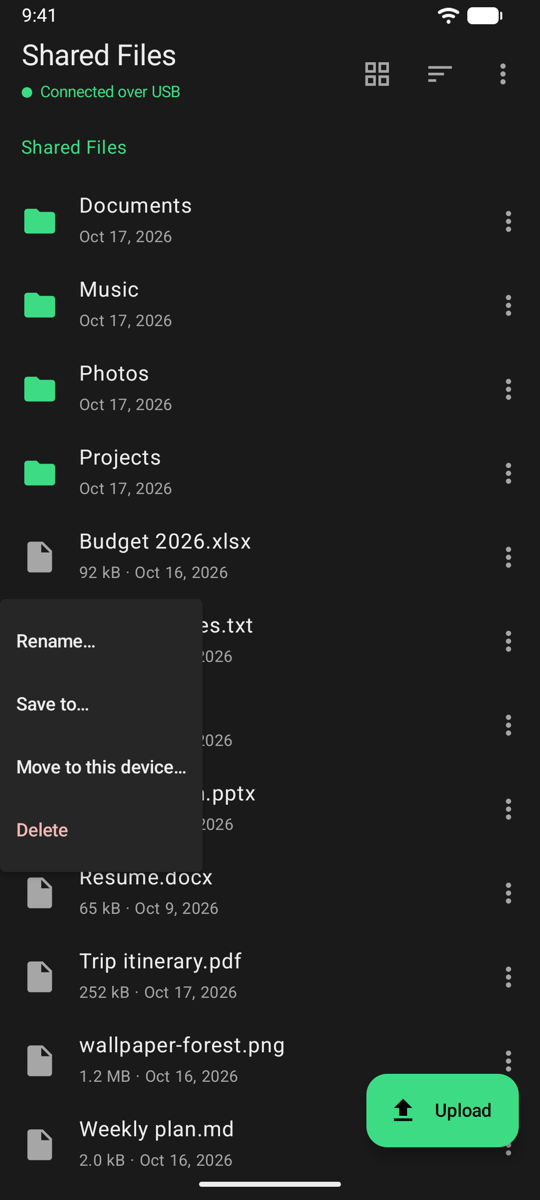
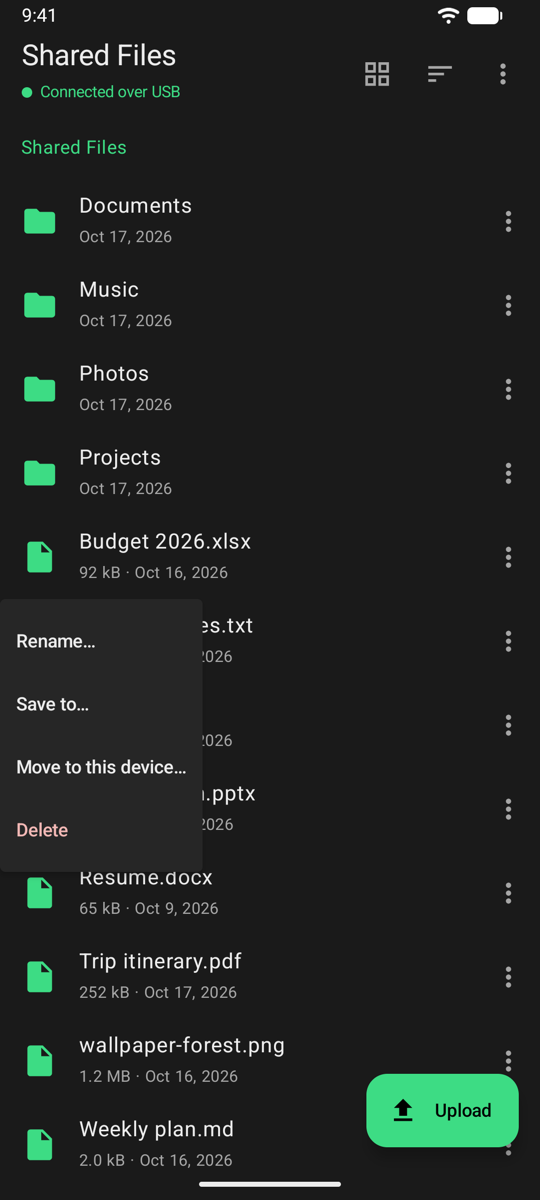
README: document the accent color and sidebar settings, refresh the Android screenshots

diff --git a/README.md b/README.md
@@ -63,6 +63,22 @@ List view, and the New Folder dialog.
 
 - **Upload Files…** pushes local files onto the Android device.
 
+### Make it yours
+
+- **Accent color.** Settings → Appearance (⌘,) picks the color of icons, folders and highlights from Finder's tag colors: Red, Orange, Yellow, Green, Blue, Purple or Gray. Green is the default. Dirian for Android uses the same color when you share a folder to it.
+- **Sidebar.** Settings → Sidebar chooses which shortcuts and which of the device's folders appear in the sidebar. A hidden folder is still there. Open the device's root folder to browse to it.
+
+<img src="Screenshots/accent-purple.png" width="700" alt="Dirian recolored with the Purple accent: purple folders, sidebar icons and highlights">
+
+Dirian with the Purple accent.
+
+<p align="center">
+  <img src="Screenshots/settings-appearance.png" width="320" alt="Dirian's Appearance settings: a list of accent colors, Red, Orange, Yellow, Green, Blue, Purple and Gray, with radio buttons">
+  <img src="Screenshots/settings-sidebar.png" width="320" alt="Dirian's Sidebar settings: checkboxes for the shortcuts and the device's folders">
+</p>
+
+The Appearance and Sidebar settings.
+
 ### Connection
 
 - With more than one device connected, a switcher beside the device name in the sidebar chooses which one to browse and share to. Dirian remembers your choice.
